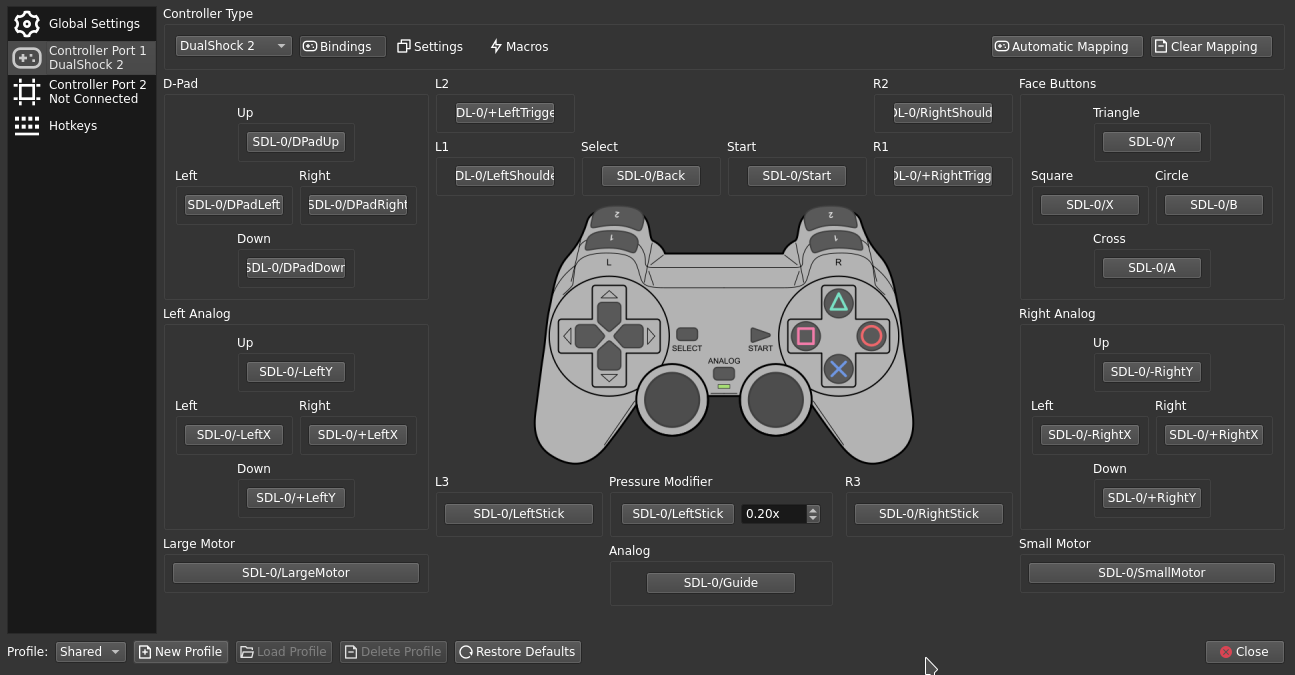
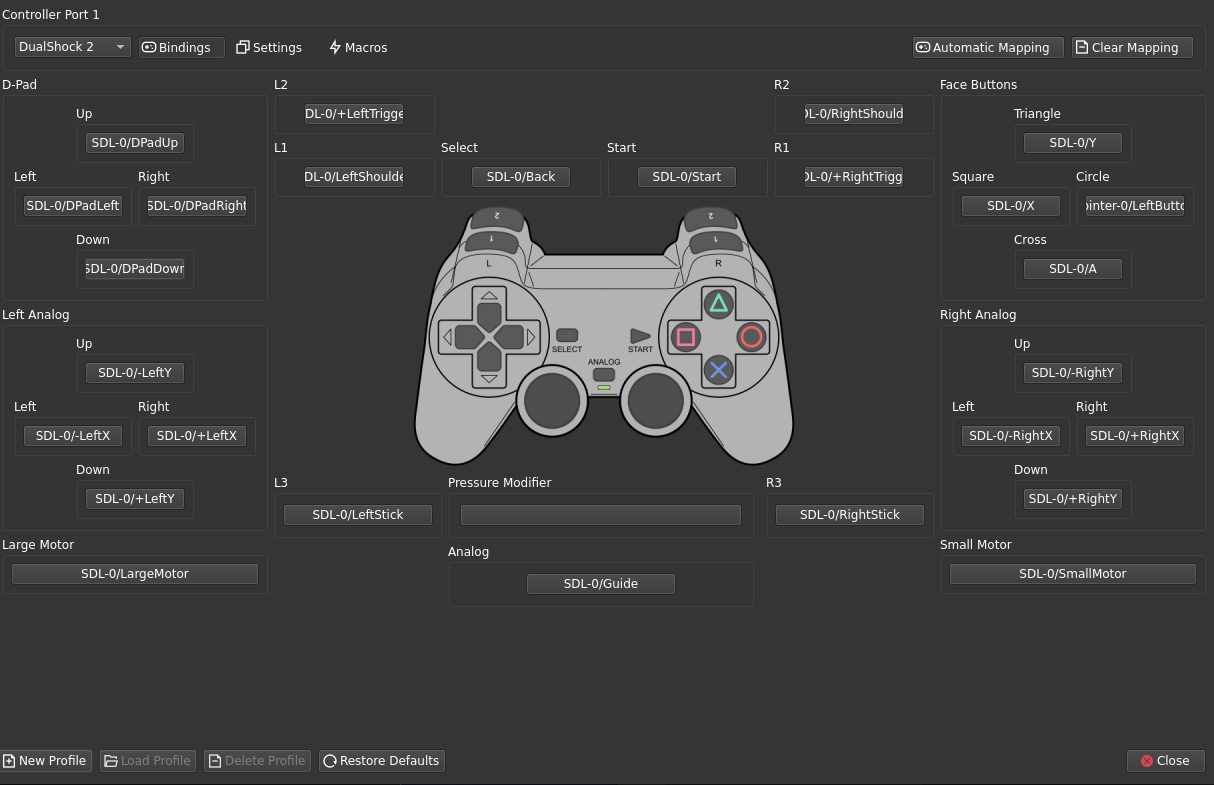
updating controller binds

diff --git a/README.md b/README.md
@@ -93,19 +93,29 @@ The QT build of PCSX2 can natively detect the Steam Deck buttons so binding shou
 
 In order to bind a crouch/stand there are a few options. The author used the following steps
 
+<<<<<<< HEAD
 - Bind Pressure Modifier to SDL-0/LeftStick and set the modifier to 0.20x
+=======
+- In PCSX2 controller settings rebind Circle to another button (I used clicking the trackpad)
+
+- Still in PCSX2 click the Macros tab
+
+- Check the boxes for Triangle and Apply Pressure
+
+- Bind this macro to B (circle)
+
+- Switch to Game Mode to set up back grip buttons
+>>>>>>> eade11b (updating controller binds)
 
 - Enable the back grip buttons in the controller settings on game mode
 
-- Still in Game Mode - bind R4 to left stick click
+- Still in Game Mode - bind R4 to B (circle)
 
-- Then add a subcommand to press the Y button (triangle)
-
-- Bind L4 to triangle
-
-This setup allows you to use the grip buttons to quickly prone/stand in game without sacrificing the circle button - the only caveat being that if you accidentally hold the crouch/stand you will change your fire rate.
+- Bind L4 to Y (triangle)
 
 ![controller-binds](screenshots/controller-binds.png)
+
+![Macro](screenshots/triangle-plus-pressure.png)
 
 ![back-grip-binds](screenshots/back-grip-binds.png)
 
